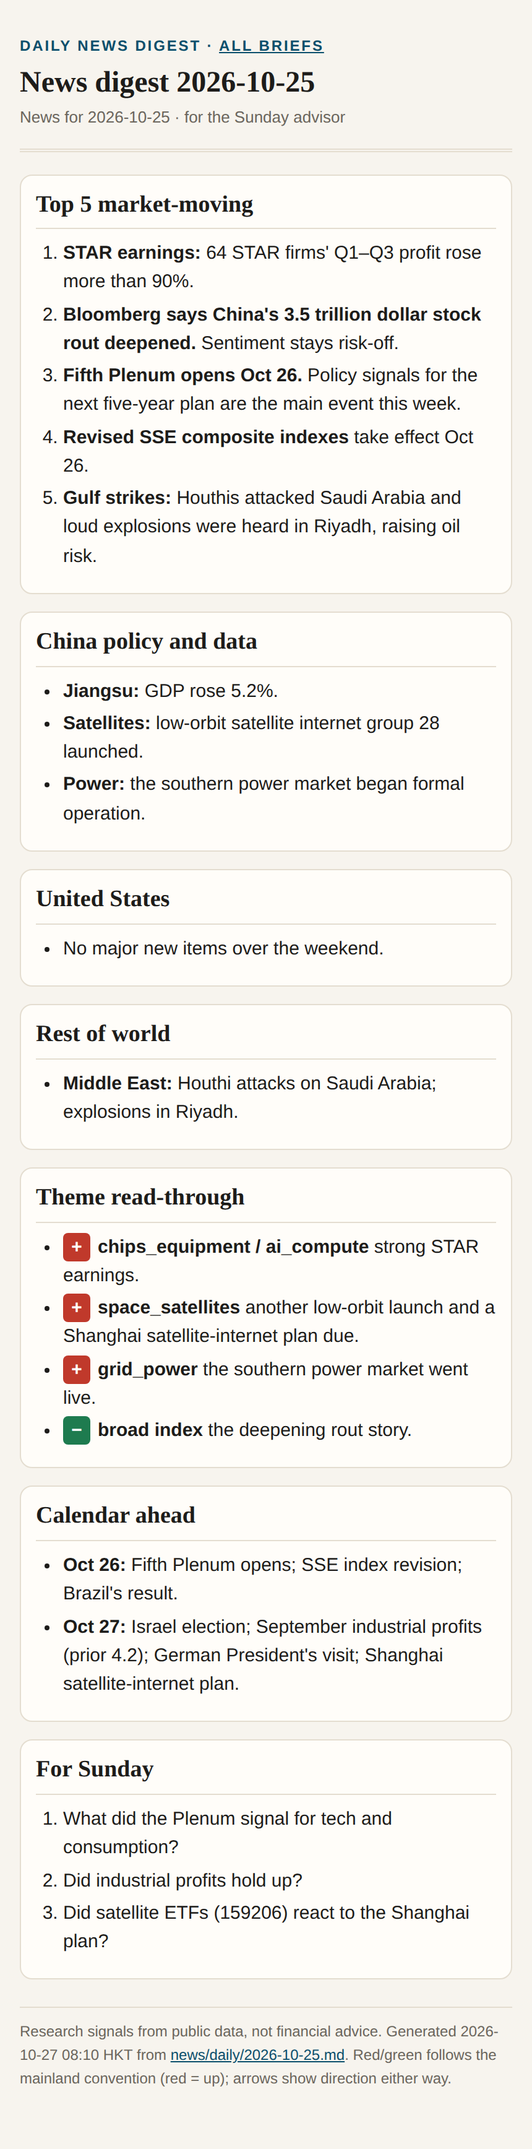
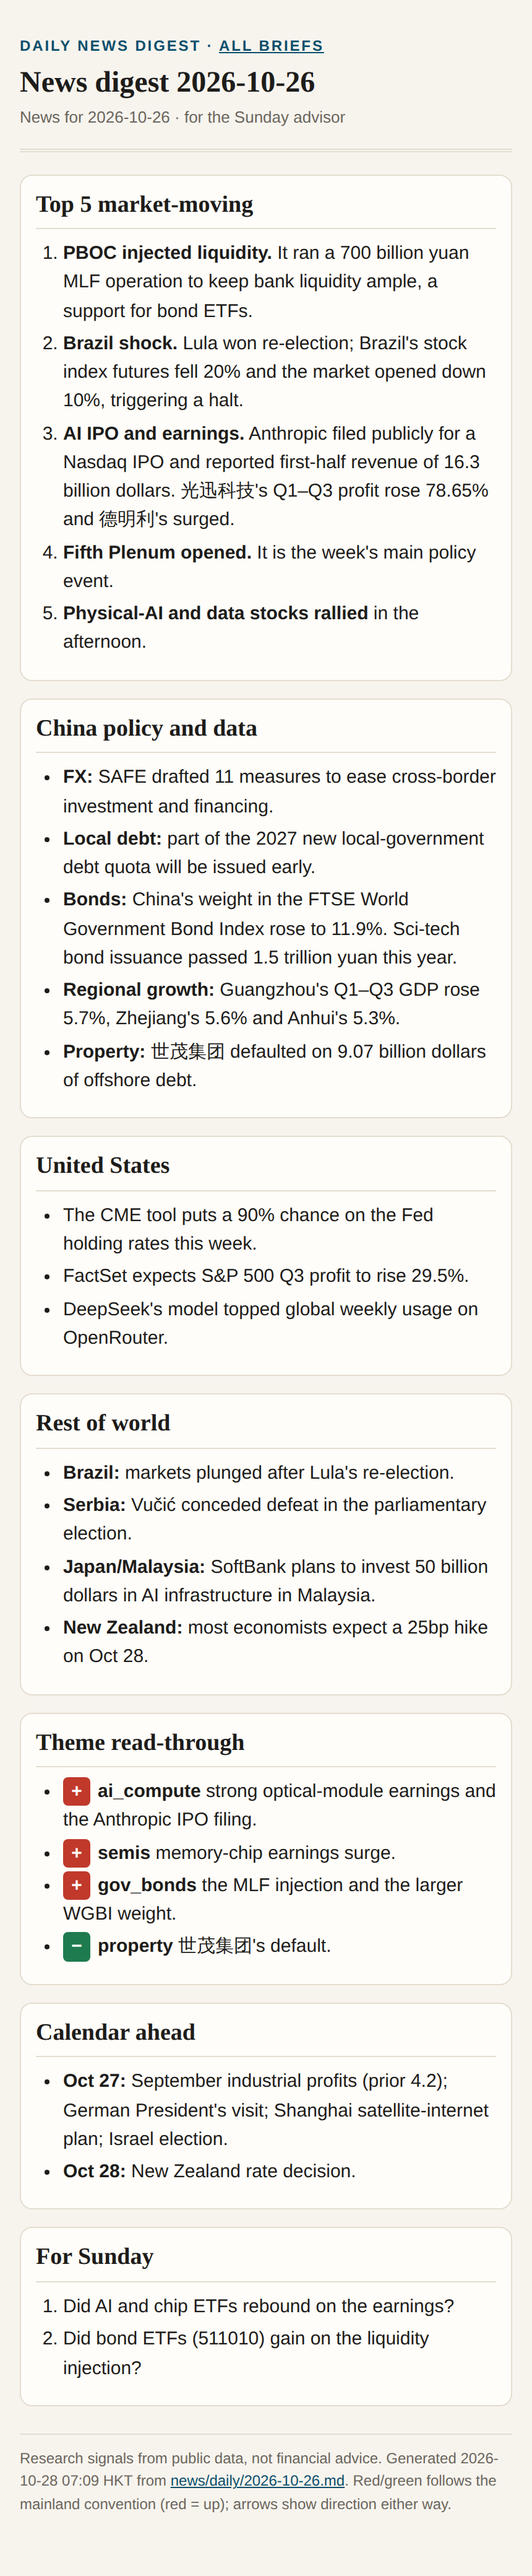
brief images 2026-10-28 07:10

Changed region(s): [[0.0302, 0.0, 0.9372, 0.9954], [0.8767, 0.6843, 0.9372, 0.7154]]

diff --git a/briefs/README.md b/briefs/README.md
@@ -17,9 +17,9 @@ Screenshots of the latest HTML brief of each scheduled task, for the GitHub mobi
 
 <a id="news"></a>
 
-## Daily news digest: News digest 2026-10-25
+## Daily news digest: News digest 2026-10-26
 
-News for 2026-10-25 · for the Sunday advisor · updated 2026-10-27 08:10 HKT · [HTML](news.html)
+News for 2026-10-26 · for the Sunday advisor · updated 2026-10-28 07:09 HKT · [HTML](news.html)
 
 ![Daily news digest part 1](img/news-1.png)
 
